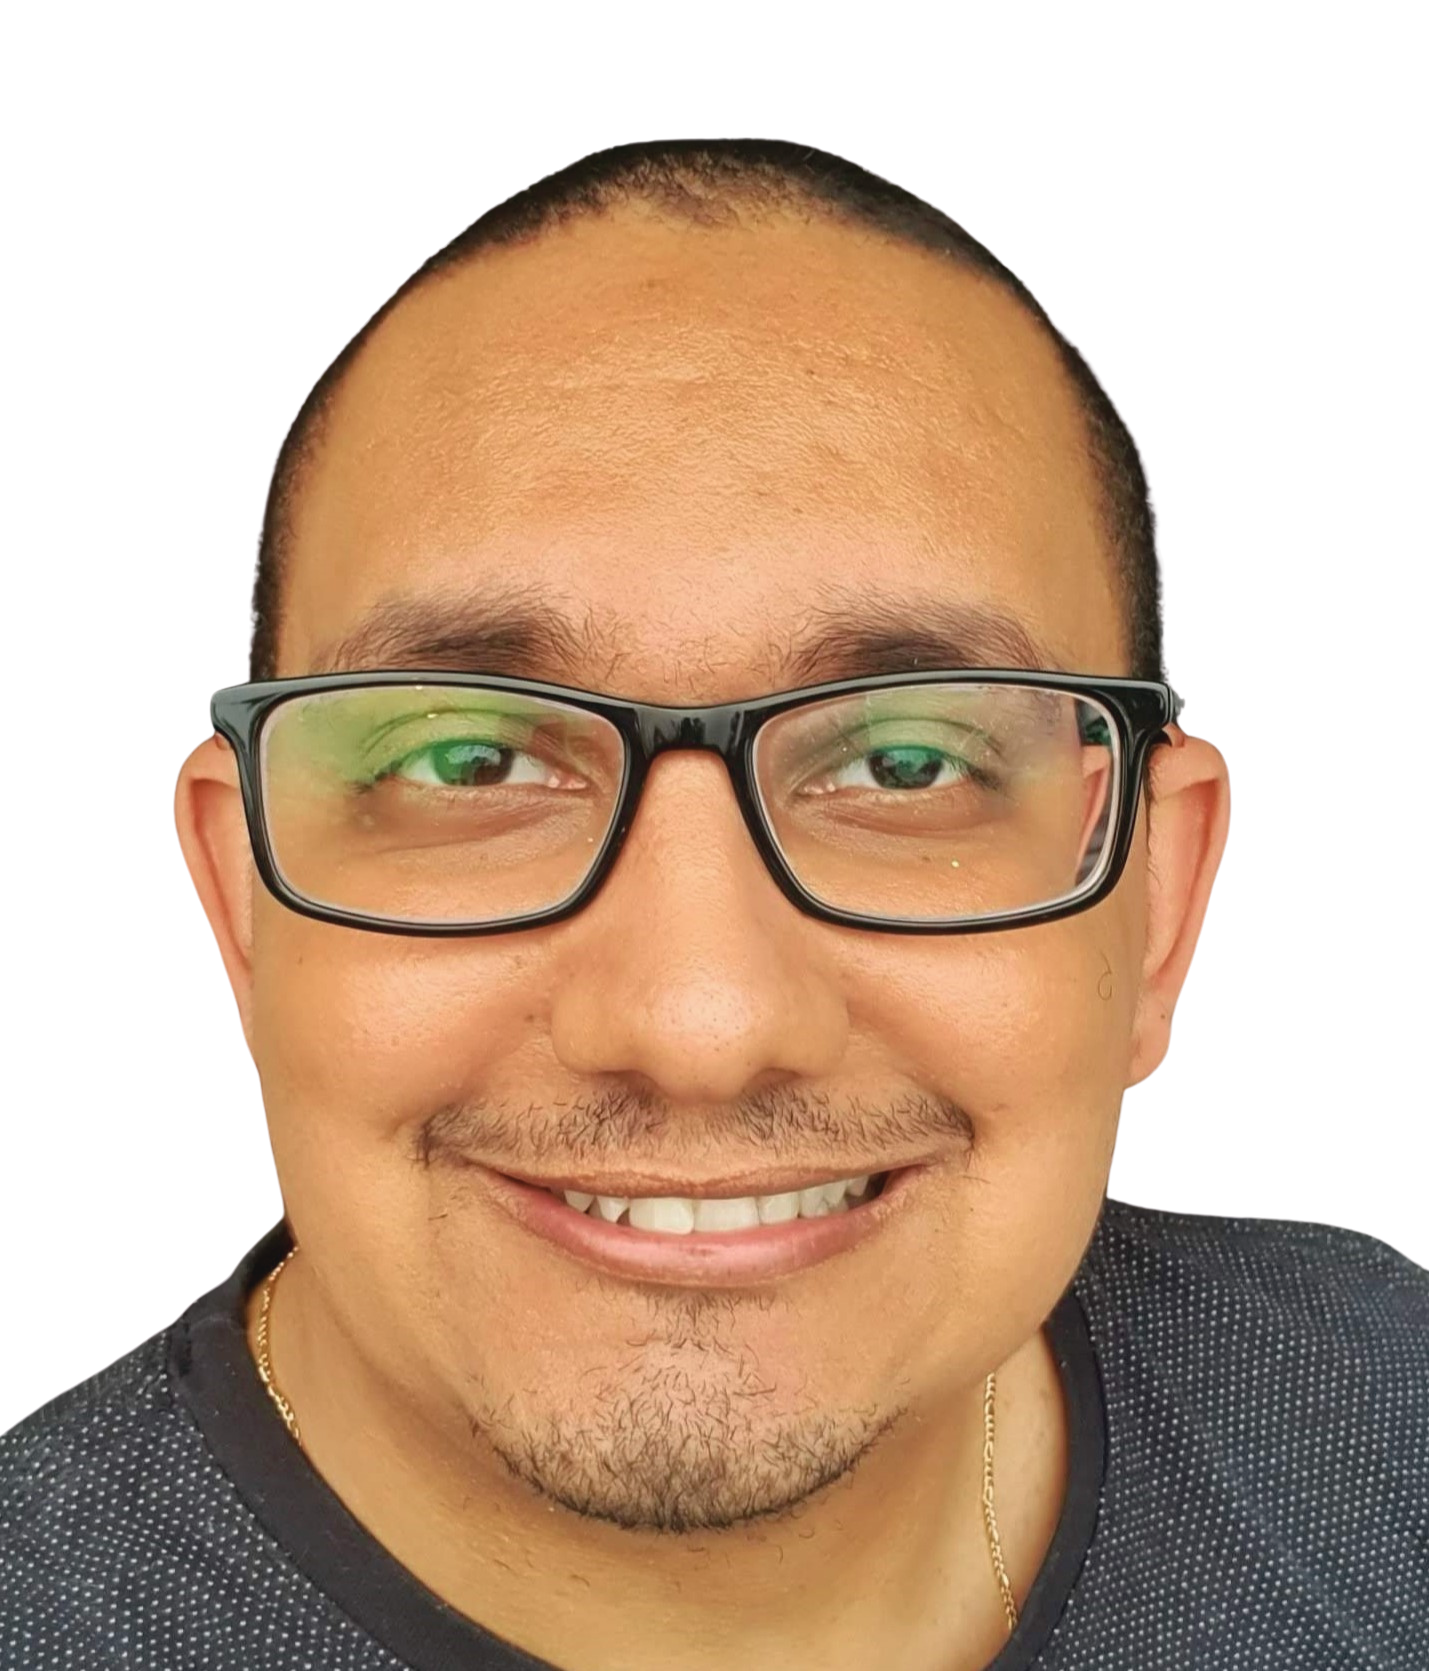
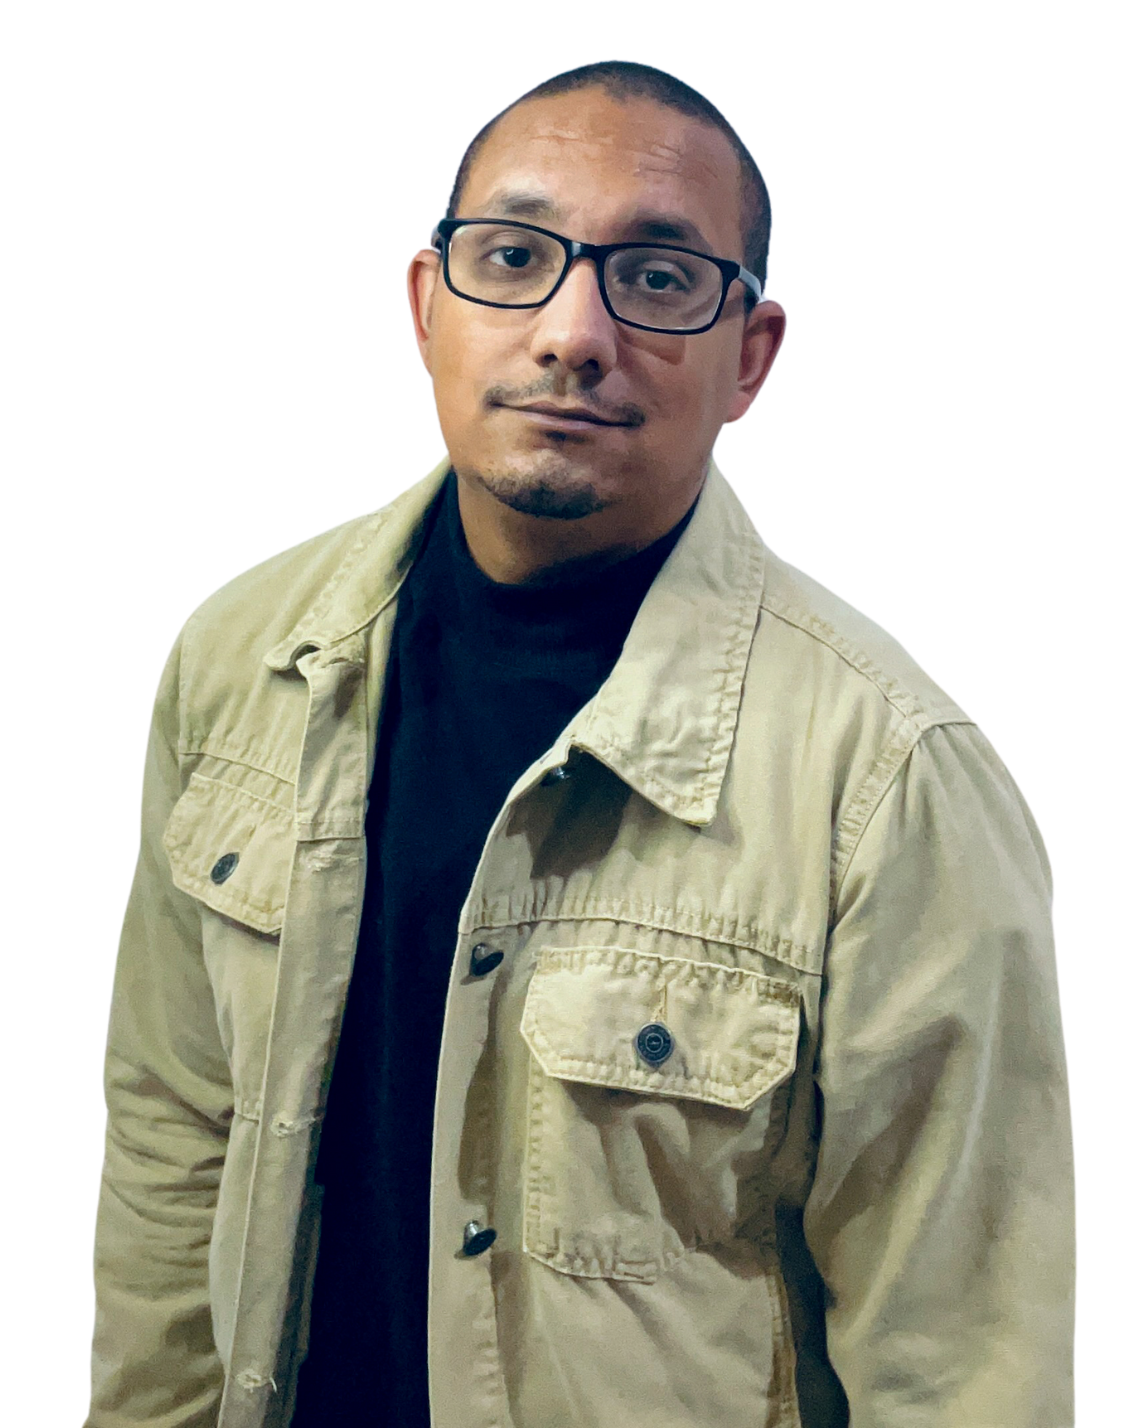
up hero

diff --git a/components/Navbar/Navbar.module.css b/components/Navbar/Navbar.module.css
@@ -1,133 +1,130 @@
 .menu__container {
-    position: relative;
+  position: relative;
+  display: flex;
+  justify-content: space-between;
+  align-items: center;
+
+  height: 72px;
+  padding: 0 64px;
+
+  background: linear-gradient(to right, #000 10%, #ffffff0b);
+}
+
+.main {
+  width: 100%;
+  height: 3px;
+  overflow: hidden;
+  background: linear-gradient(to right, var(--dourado) 0%, var(--laranja) 50%, var(--dourado) 100%);
+  background-size: 200% 100%;
+  animation: gradientAnimation 5s ease-in-out infinite;
+  filter: brightness(1.5)
+}
+
+.menu__hamburger {
+  display: none;
+  cursor: pointer;
+}
+
+.menu__links {}
+
+.responsive__menu {
+  display: none;
+}
+
+
+@keyframes gradientAnimation {
+  0% {
+    background-position: 100% 0;
+  }
+
+  100% {
+    background-position: -100% 0;
+  }
+}
+
+
+
+.menu__logo {
+  width: 30px;
+}
+
+.menu__links {
+  display: flex;
+  gap: 32px;
+
+  font-size: 1.1rem;
+}
+
+.menu__link:hover {
+  cursor: pointer;
+  color: var(--dourado);
+  border-bottom: 3px solid var(--dourado);
+  transition: 0.5s;
+
+}
+
+@media (max-width: 810px) {
+  .menu__container {
+    width: 97vw;
+    padding: 8px;
     display: flex;
     justify-content: space-between;
+    position: fixed;
+    background-color: #000;
+    z-index: 5;
+    opacity: ;
+  }
+
+  .menu__hamburger {
+    display: block;
+    padding: 0 2px;
+  }
+
+  .menu__hamburger img {
+    width: 30px;
+  }
+
+  .menu__links {
+    display: none;
+  }
+
+  .responsive__menu {
+    display: flex;
+    position: fixed;
+    height: 100vh;
+    width: 100vw;
+    max-height: 100%;
+    top: 87px;
+    background-color: #000;
+    z-index: 4;
+    opacity: ;
+    justify-content: center;
     align-items: center;
+    flex-direction: column;
+    gap: 16px;
+    text-transform: uppercase;
+  }
 
-    height: 72px;
-    padding: 0 64px;
-
-    background: linear-gradient(to right, #000 10%, #ffffff0b);
-}
-.main {
+  .main {
     width: 100%;
     height: 3px;
     overflow: hidden;
     background: linear-gradient(to right, var(--dourado) 0%, var(--laranja) 50%, var(--dourado) 100%);
     background-size: 200% 100%;
     animation: gradientAnimation 5s ease-in-out infinite;
-    filter: brightness(1.5)
-}
-
-/* Navbar.module.css */
-
-.menu__hamburger {
-    display: none; /* Inicialmente, esconder o ícone do menu hamburguer */
-  
-    /* Adicionar estilos para o ícone do menu hamburguer (três linhas) */
-  
-    cursor: pointer;
+    filter: brightness(1.5);
+    position: absolute;
+    top: 88px;
   }
-  
-  .menu__links {
+
+  .main__reponsive {
+    width: 100%;
+    height: 3px;
+    overflow: hidden;
+    background: linear-gradient(to right, var(--dourado) 0%, var(--laranja) 50%, var(--dourado) 100%);
+    background-size: 200% 100%;
+    animation: gradientAnimation 5s ease-in-out infinite;
+    filter: brightness(1.5);
+    z-index: 3;
   }
-  
-  /* Adicionar estilos para o menu responsivo */
-  .responsive__menu {
-    display: none; /* Inicialmente, esconder o menu responsivo */
-  }
-  
-
-@keyframes gradientAnimation {
-    0% {
-        background-position: 100% 0;
-    }
-    100% {
-        background-position: -100% 0;
-    }
-}
-
-
-
-.menu__logo {
-    width: 30px;
-}
-
-.menu__links {
-    display: flex;
-    gap: 32px;
-
-    font-size: 1.1rem;
-}
-
-.menu__link:hover {
-    cursor: pointer;
-    color: var(--dourado);
-    border-bottom: 3px solid var(--dourado);
-    transition: 0.5s;
-
-}
-
-@media (max-width: 810px) {
-    .menu__container {
-        width: 97vw;
-        padding: 8px;
-        display: flex;
-        justify-content: space-between;
-        position: fixed;
-        background-color: #000;
-        z-index: 5;
-        opacity: ;
-    }
-
-    .menu__hamburger {
-        display: block; /* Mostrar o ícone do menu hamburguer em telas menores que 810px */
-        padding: 0 2px;
-      }
-      .menu__hamburger img{
-        width: 30px;
-      }
-    
-      .menu__links {
-        display: none; /* Esconder o menu de links normal em telas menores que 810px */
-      }
-    
-      .responsive__menu {
-        display: flex;
-        position: fixed;
-        height: 100vh;
-        width: 100vw;
-        max-height: 100%;
-        top: 87px;
-        background-color: #000;
-        z-index: 4;
-        opacity: ;
-        justify-content: center;
-        align-items: center;
-        flex-direction: column;
-        gap: 16px;
-        text-transform: uppercase;
-      }
-
-      .main {
-        width: 100%;
-        height: 3px;
-        overflow: hidden;
-        background: linear-gradient(to right, var(--dourado) 0%, var(--laranja) 50%, var(--dourado) 100%);
-        background-size: 200% 100%;
-        animation: gradientAnimation 5s ease-in-out infinite;
-        filter: brightness(1.5);
-        position: absolute;
-        top: 88px;
-    }
-      .main__reponsive {
-        width: 100%;
-        height: 3px;
-        overflow: hidden;
-        background: linear-gradient(to right, var(--dourado) 0%, var(--laranja) 50%, var(--dourado) 100%);
-        background-size: 200% 100%;
-        animation: gradientAnimation 5s ease-in-out infinite;
-        filter: brightness(1.5);
-        z-index: 3;
-    }
 }

diff --git a/components/Skills/Skills.module.css b/components/Skills/Skills.module.css
@@ -7,11 +7,12 @@
      gap: 24px;
 
      color: var(--brancoTexto);
+     background-color: var(--preto);
      
-     background-image: url('../../public/assets/images/bg-transparent-3.png');
+/*      background-image: url('../../public/assets/images/bg-transparent-3.png');
      background-repeat: no-repeat;
      background-size: 100% 100%;
-     background: linear-gradient(#050605, #020506) !important;
+     background: linear-gradient(#050605, #020506) !important; */
  }
 
 
@@ -25,7 +26,7 @@
 
  .skills__cards {
      width: 100%;
-     height: 500px;
+     height: 600px;
      overflow: auto;
      margin-top: 64px;
      display: flex;
@@ -49,7 +50,7 @@
     
     /* Estilo para a alça da barra de rolagem */
     .skills__cards::-webkit-scrollbar-thumb {
-        background-color: var(--preto);
+        background-color: var(--dark);
         /* Cor da alça da barra de rolagem */
         border-radius: 6px;
         /* Raio da borda da alça */
@@ -64,7 +65,7 @@
 
  .skills__card {
      width: 100%;
-     padding: 16px;
+     padding: 8px 16px;
      display: ;
      background-color: #ffffff0b;
      border-radius: 10px;

diff --git a/components/Hero/Hero.module.css b/components/Hero/Hero.module.css
@@ -5,13 +5,13 @@
     justify-content: space-around;
     gap: 64px;
     padding: 0;
-
-    background-image: url(../../public/assets/images/bg-transparent.png);
+    background-image: url(/public/assets/images/bg.png);
     background-attachment: fixed;
-    background-size: 100vw 100% cover;
+    height: 100vh;
+    background-size: cover;
+    background-position: center;
     background-repeat: no-repeat;
 }
-
 .hero__text {
     width: /* 616px */;
 }
@@ -31,7 +31,7 @@
 }
 
 .hero__img {
-    height: 600px;
+    height: 100vh;
 }
 
 @media (max-width: 810px) {

diff --git a/components/Hero/Hero.jsx b/components/Hero/Hero.jsx
@@ -10,7 +10,7 @@ function Hero() {
         <h2 className={styles.subtitulo} data-aos="fade">Eu sou o Silas Horta <div className={`animate__animated animate__pulse ${styles.text_main}`} >Web Developer</div> &lt;/&gt;</h2>
       </div>
       <div >
-        <img src="../../assets/images/teste.png" alt="" className={"animate__animated animate__backInUp " + styles.hero__img}/>
+        <img src="../../assets/images/eu2.png" alt="" className={"animate__animated animate__backInUp " + styles.hero__img}/>
       </div>
     </div>
   )

diff --git a/components/Projects/Projects.module.css b/components/Projects/Projects.module.css
@@ -6,10 +6,10 @@
     gap: 80px;
 
     background: var(--preto);
-    background-image: url('../../public/assets/images/bg-transparent-3.png');
+/*     background-image: url('../../public/assets/images/bg-transparent-3.png');
     background-repeat: no-repeat;
     background-size: cover;
-    background-attachment: fixed;
+    background-attachment: fixed; */
 }
 
 .projects__descricao {

diff --git a/components/About/About.module.css b/components/About/About.module.css
@@ -3,10 +3,10 @@
     gap: 80px;
     background: var(--preto);
 
-    background-image: url("../../public/assets/images/bg-transparent-2.png");
+/*     background-image: url("../../public/assets/images/bg-transparent-2.png");
     background-repeat: no-repeat;
     background-size:  cover;
-    background-attachment: fixed;
+    background-attachment: fixed; */
 }
 
 .about__titulo {

diff --git a/src/index.css b/src/index.css
@@ -10,7 +10,7 @@
   --laranja: #fd5200;
   --dourado: #f0c808;
   --azulClaro: #086788;
-  --preto: #000000c7;
+  --preto: #000000;
   --dark: #141414;
   --cinza: #F4F4F4;
   --brancoTexto: #e0e6e3;
